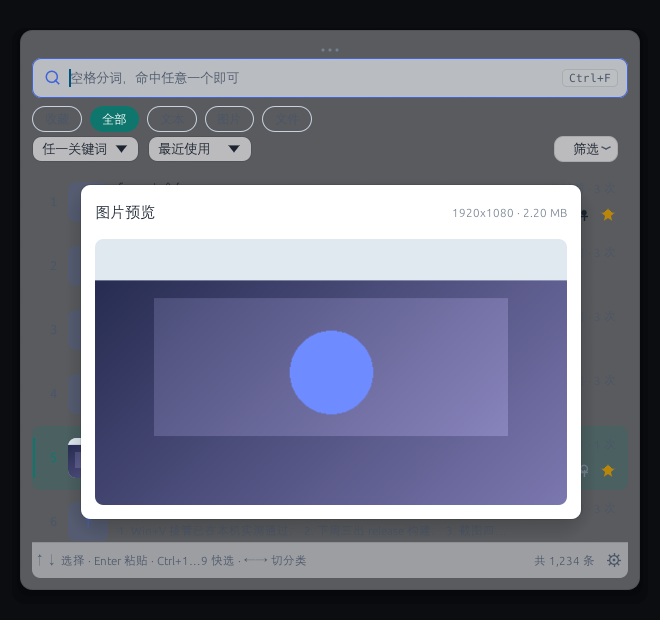
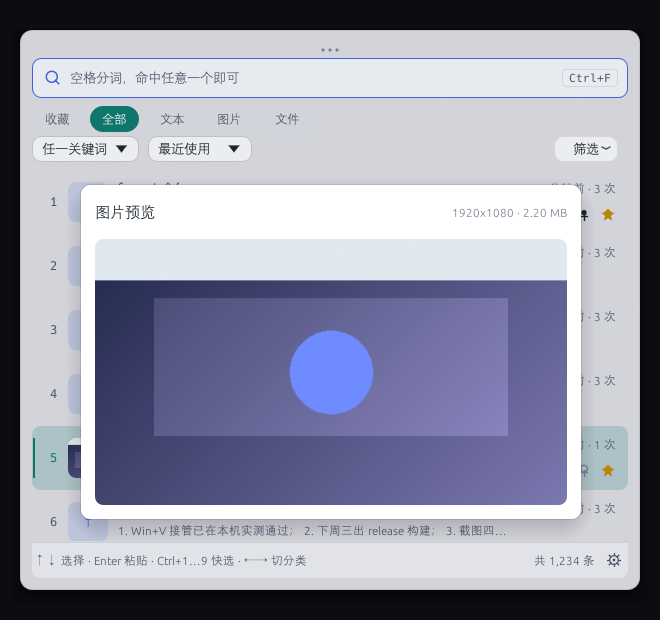
fix: v1.13.2 修复浅色主题低透明度下发暗

diff --git a/src/ui/theme.rs b/src/ui/theme.rs
@@ -283,6 +283,10 @@ pub fn window_bg() -> Color32 {
     }
     let pct = glass_opacity() as u16;
     let alpha = ((pct * 255) / 100).clamp(40, 255) as u8;
+    // 浅色皮肤不能跟着透明度滑到太低：Acrylic 失效/系统深色背景时，
+    // 35% 的浅色底叠在黑色桌面上会变成深灰，深色文字几乎看不清。
+    // 给浅色窗口底一个不透明度下限，保证任何背景下文字都有足够对比度。
+    let alpha = if is_light() { alpha.max(220) } else { alpha };
     scale_alpha(palette().window_base, alpha)
 }
 
@@ -762,6 +766,19 @@ mod tests {
         assert!(palette.text.r() < 64, "浅色皮肤主文本必须是深色");
         assert!(palette.card.r() > 220, "浅色皮肤卡片必须是浅色");
         assert!(palette.window_bg.a() < 255, "浅色皮肤也要保留半透明玻璃层");
+        set_light(false);
+    }
+
+    #[test]
+    fn light_window_bg_keeps_readable_opacity_floor() {
+        let _guard = TEST_LOCK.lock().unwrap();
+        set_light(true);
+        set_glass_opacity(35);
+        assert!(
+            window_bg().a() >= 220,
+            "浅色窗口在最低透明度下也要保证文字对比度"
+        );
+        set_glass_opacity(75);
         set_light(false);
     }
 

diff --git a/README.md b/README.md
@@ -253,6 +253,7 @@ clipnest.exe（单进程常驻）
 
 ## 更新记录
 
+- **v1.13.2**：修复浅色主题在低透明度/无 Acrylic 背景下候选窗发暗、深色文字看不清的问题。浅色窗口底色现在有不透明度下限（约 86%），即使磨砂玻璃失效、桌面是深色，面板也保持浅色和足够对比度；深色主题的玻璃透明度不受影响。
 - **v1.13.1**：修复选中图片预览发糊。预览原先复用了列表的 96px 缩略图，放大到卡片尺寸后必然模糊；现在单独增加高分辨率预览缓存，直接读取原图并缩放到最长边 960px（卡片显示约 472×280），后台解码完成前先用缩略图占位。预览卡也相应加大到 500px 宽，便于看清图片内容。
 - **v1.13.0**：新增候选窗**选中预览**。用 `↑↓` 或鼠标选中图片、长文本时，弹出带淡入上浮动效的预览卡片：图片显示大图，长文本显示完整正文（沿用关键字标红，最多 6000 字），文件条目不弹预览。设置 → 行为新增「选中后预览图片 / 长文本」开关，默认开启；关闭后不再打扰。同时移除筛选按钮右上角的蓝色小点（它只是“时间筛选已生效”的提示，容易被误解为未读标记）。
 - **v1.12.5**：修复日期弹窗点击失效的两个原因。其一，弹窗原先在候选窗列表**之前**绘制，弹窗虽然视觉在列表上方，但列表点击区域后注册，会抢走日历格的点击；现在弹窗最后绘制，点击优先落到日历上。其二，点第一下开始日期时弹窗不返回动作，调用方只在拿到动作时才保存起止日期，导致下一次点击又用旧值重绘；现在无论是否关闭都保存当前选择。实测「今天」「取消」和日期格均可正常操作。

diff --git a/docs/ACCEPTANCE-RESULT.md b/docs/ACCEPTANCE-RESULT.md
@@ -1026,3 +1026,21 @@
 - 新增 `preview_decode_keeps_original_detail`：1920×1080 原图经预览解码后为 960×540，不再缩到 96px。
 - `cargo test --release`：**241 passed / 0 failed / 1 ignored**。
 - 预览截图确认卡片为 500px 宽、图片为 960px 原图缩放，文字与图形边缘清晰。
+
+## 47. v1.13.2（2026-11-05，浅色主题低透明度下发暗）
+
+### 用户反馈
+- 设置为浅色主题，但候选窗看起来是深色，文字几乎看不清。
+
+### 根因
+- `theme::window_bg()` 在磨砂模式下按 `glass_opacity` 计算窗口底色 alpha；用户把透明度滑到最低 35，窗口底色 alpha 只有 89/255。
+- 当 Acrylic 背景材质未生效或背后是深色桌面时，这一层 35% 的浅色底叠在近黑背景上，实际渲染成深灰（用户截图面板像素约 `(83,85,86)`），深色文字对比度不足；搜索框等实色卡片仍是浅色，所以出现“浅色主题但面板发暗”的割裂观感。
+
+### 实现
+- `src/ui/theme.rs::window_bg()`：浅色主题窗口底色增加不透明度下限 220/255（约 86%）；深色主题仍按原透明度计算，不影响玻璃观感。
+- 这样即使 Acrylic 失效或桌面为深色，浅色面板也不会被背景拖暗，文字保持可读。
+
+### 校验
+- 新增 `light_window_bg_keeps_readable_opacity_floor`：浅色 + 35% 透明度时 `window_bg().a() >= 220`。
+- `cargo test --release`：**242 passed / 0 failed / 1 ignored**。
+- `--ui-preview picker` 在深色预览外层背景下确认面板保持浅色、文字清晰。
